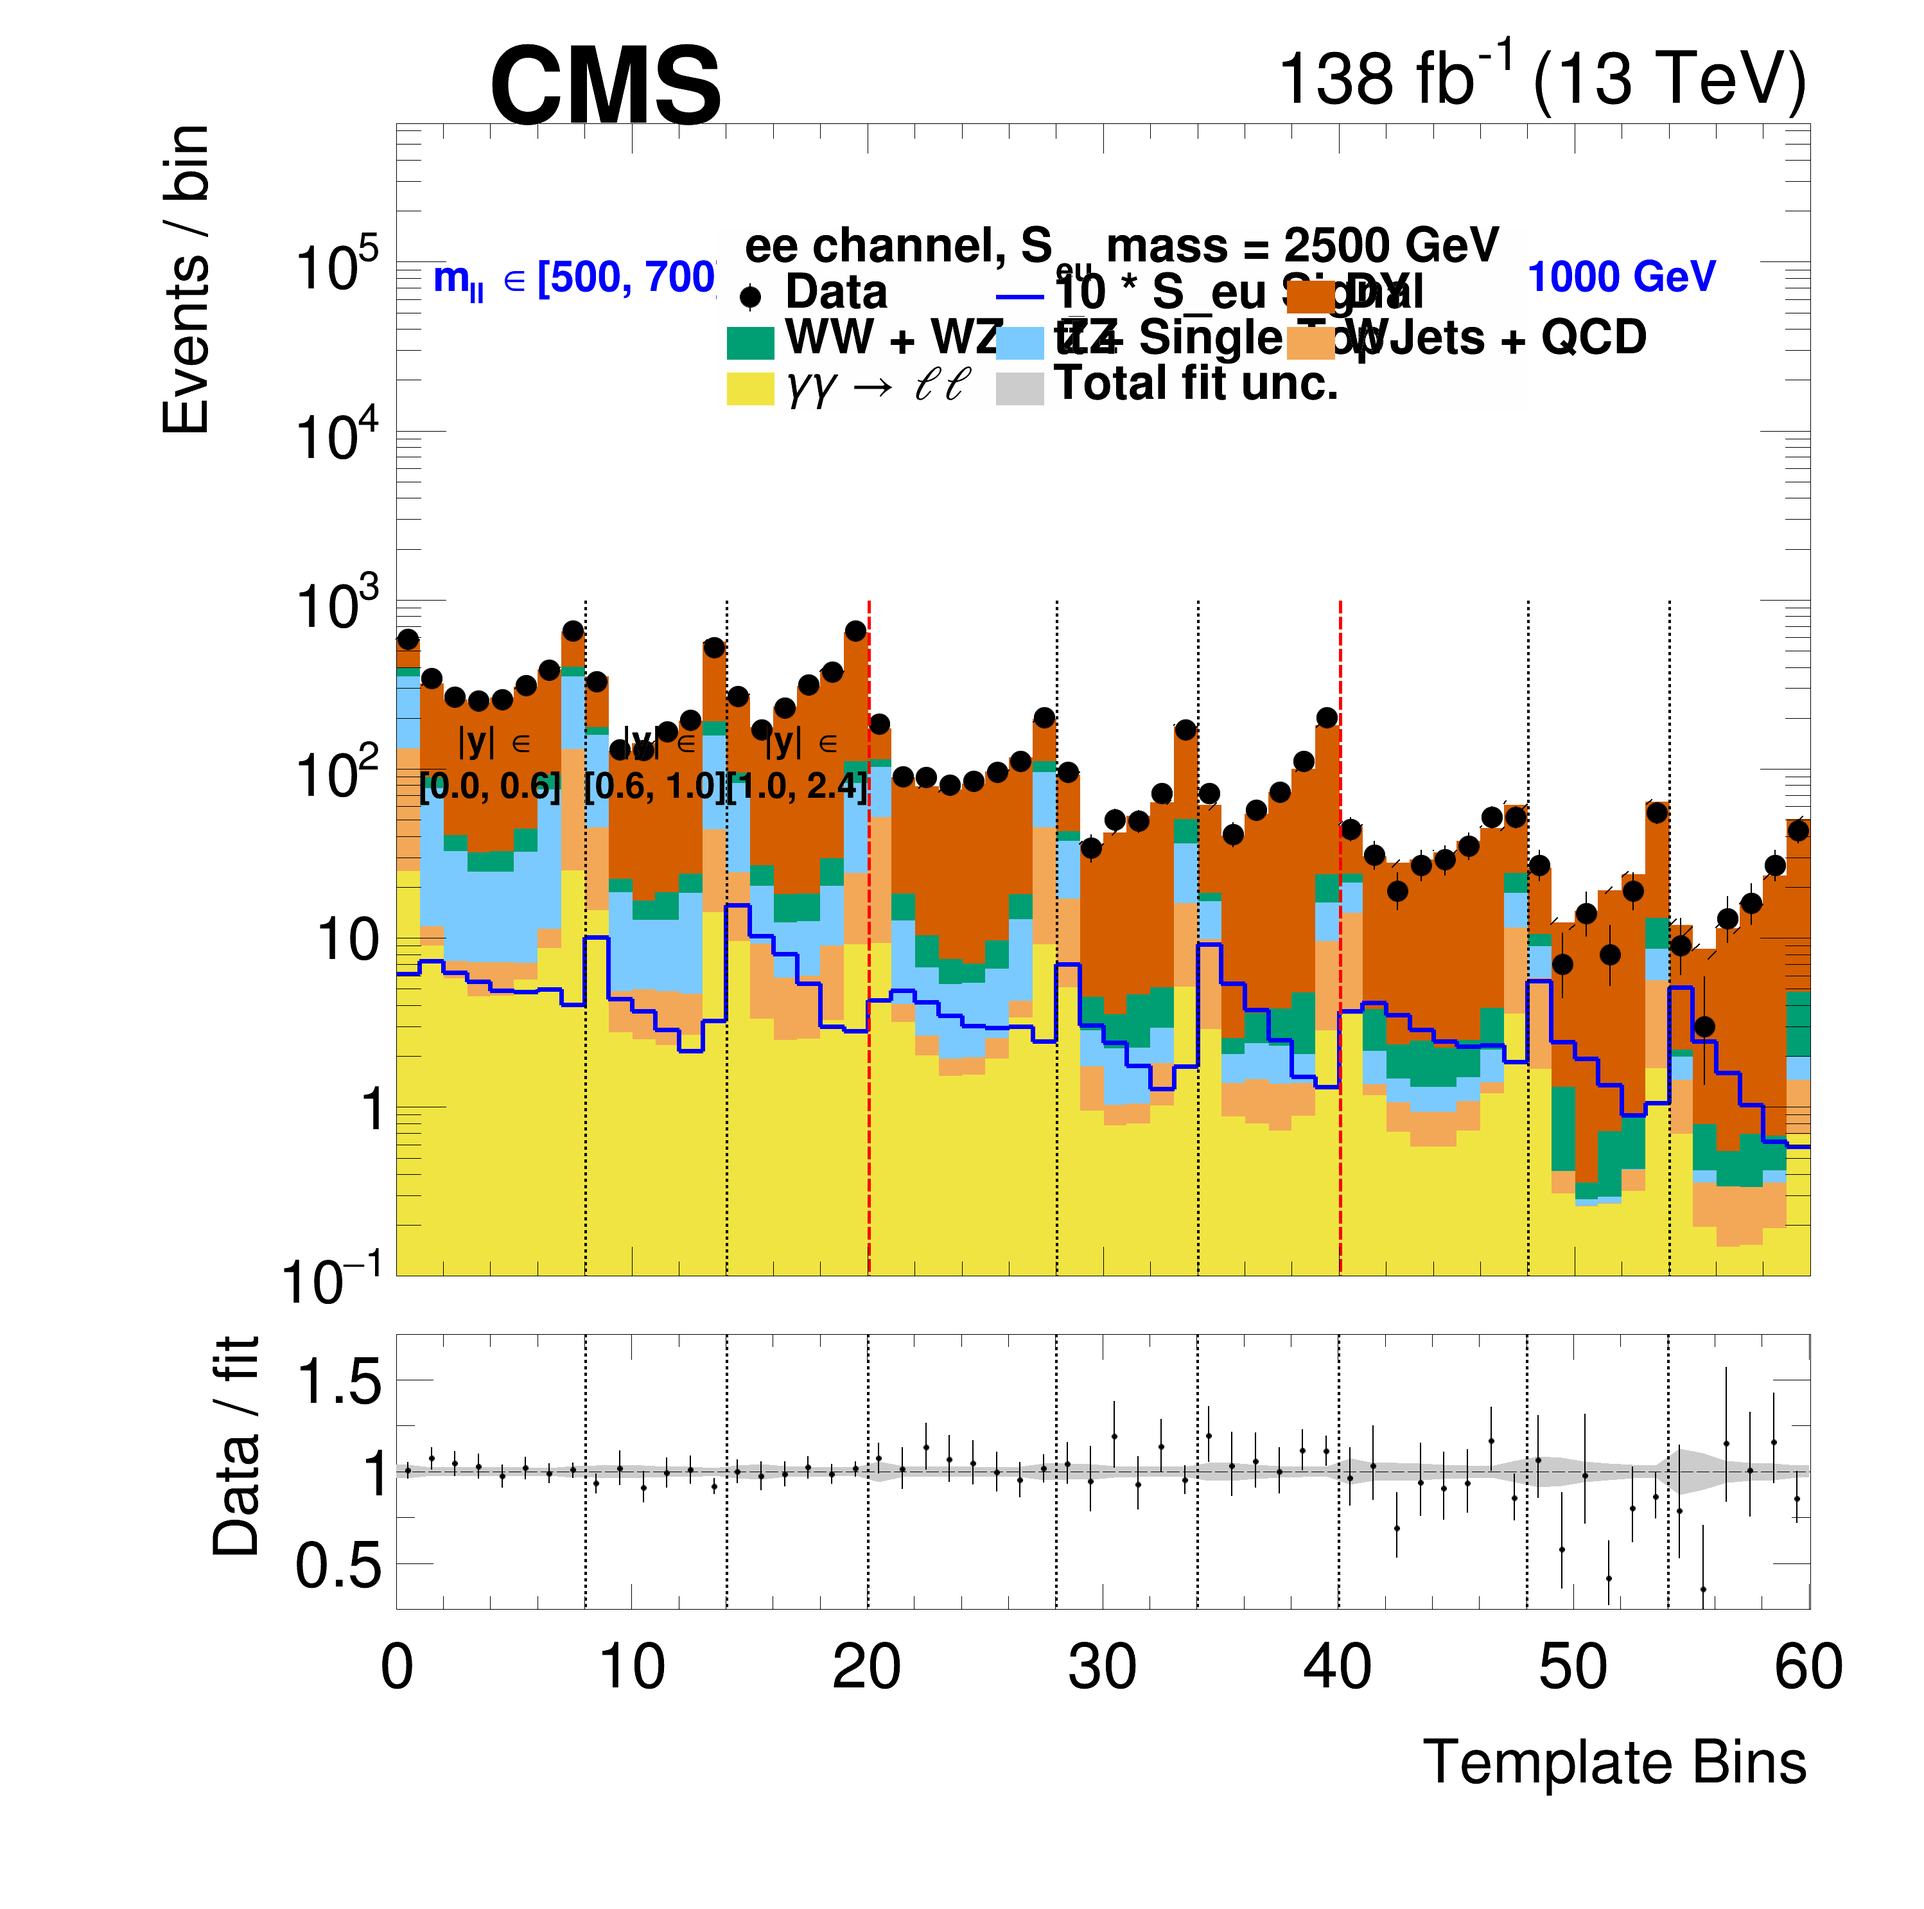
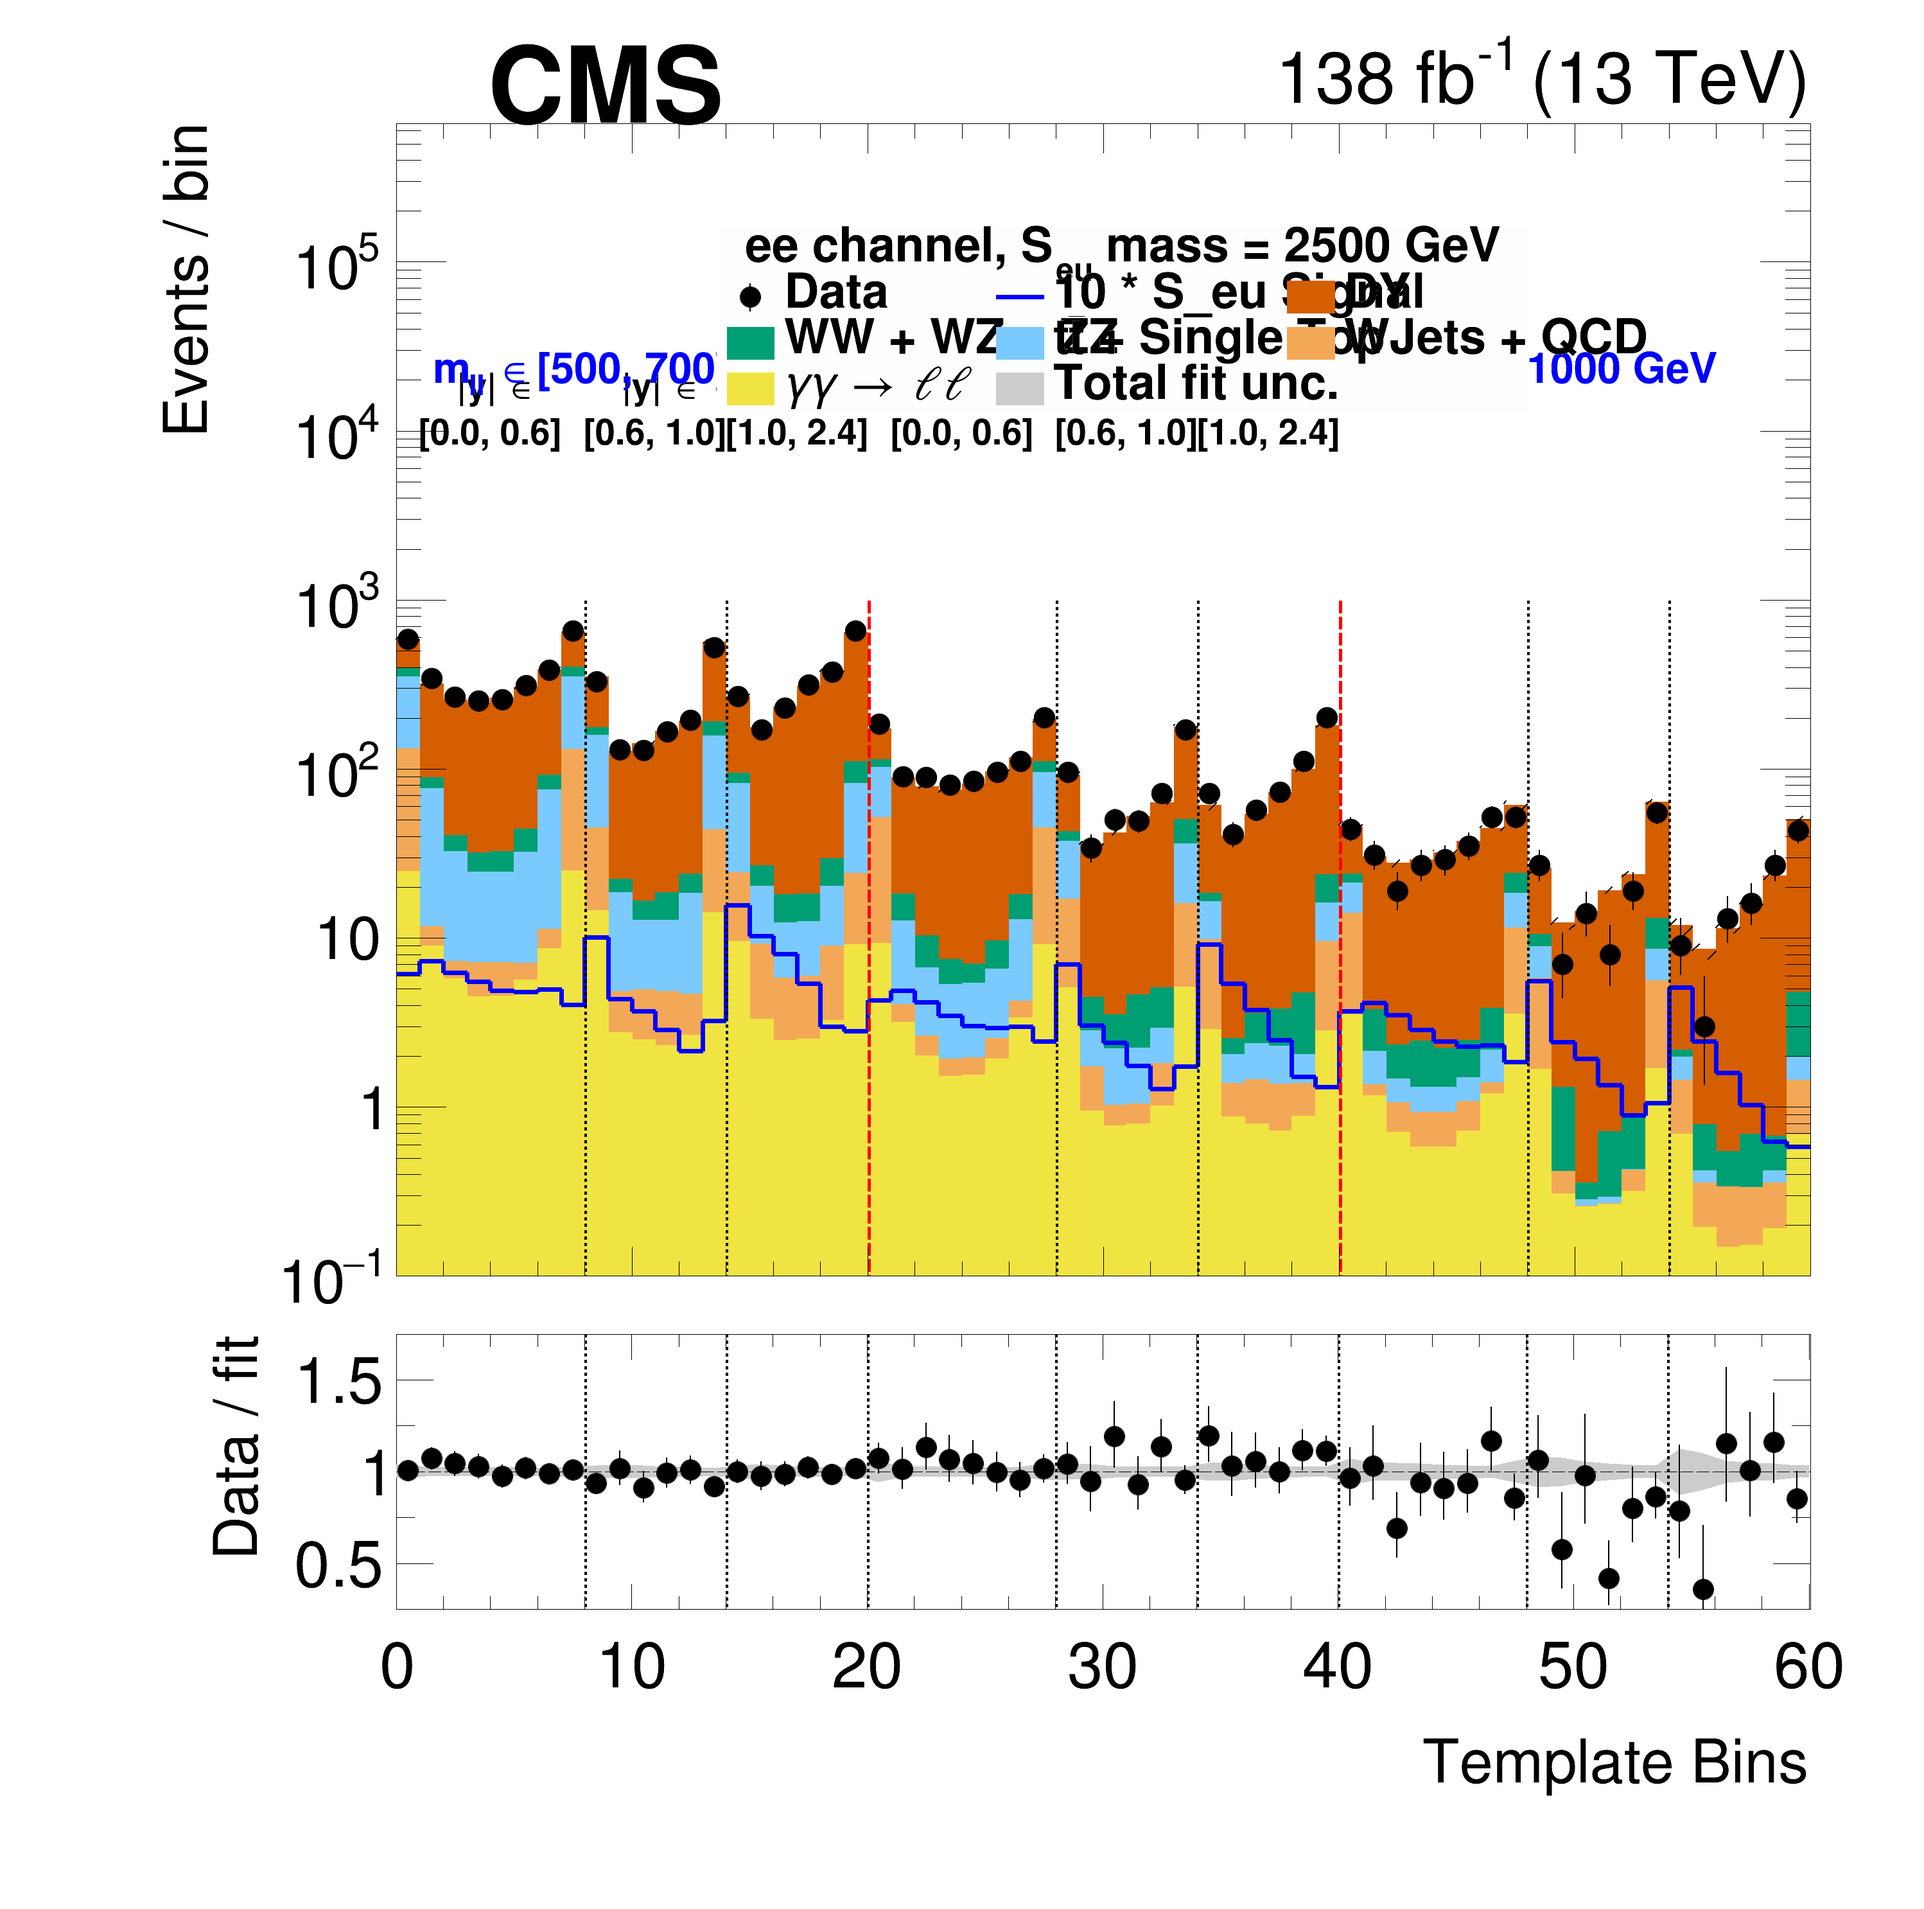
plot fix?

diff --git a/analyze/combine/AFB_fits/scripts/LQ_plot_postfit.py b/analyze/combine/AFB_fits/scripts/LQ_plot_postfit.py
@@ -285,9 +285,9 @@ def makeCan(name, tag, histlist, bkglist=[],signals=[],totlist = [], colors=[],t
 							"#splitline{   #bf{|y| #epsilon}}{#bf{[1.5, 2.4]}}"]
 				else:
 					line_vals = [8, 14, 20, 28, 34, 40, 48, 54 ]
-					text_center_bins = [4, 11, 17]
+					text_center_bins = [4, 11, 17, 24, 31, 37, 44, 51, 57]
 					text_strs = ["#splitline{   #bf{|y| #epsilon}}{#bf{[0.0, 0.6]}}", "#splitline{   #bf{|y| #epsilon}}{#bf{[0.6, 1.0]}}", "#splitline{   #bf{|y| #epsilon}}{#bf{[1.0, 2.4]}}"]
-
+					text_strs+=text_strs
 
 				lstyle = 7
 				lwidth = 4
@@ -300,9 +300,9 @@ def makeCan(name, tag, histlist, bkglist=[],signals=[],totlist = [], colors=[],t
 
 				for idx in range(len(line_vals)):
 					line_x = line_vals[idx] + line_eps
-					l = TLine(line_x, 0, line_x, line_max)
+					l = TLine(line_x, 0, line_x, line_max+0.5)
 					if line_vals[idx] == 20 or line_vals[idx] == 40: 
-						l = TLine(line_x, 0, line_x, line_max+0.3)
+						l = TLine(line_x, 0, line_x, line_max+0.7)
 						l.SetLineColor(ROOT.kRed)
 						l.SetLineStyle(9)
 						l.SetLineWidth(5)
@@ -333,7 +333,7 @@ def makeCan(name, tag, histlist, bkglist=[],signals=[],totlist = [], colors=[],t
 
 				for idx,text_str in enumerate(text_strs):
 					text_center = l_margin + (text_center_bins[idx] / nbins) * (1.-l_margin - r_margin)
-					latext.DrawLatex(text_center, text_y, text_str)
+					latext.DrawLatex(text_center, text_y+0.27, text_str)
 				# mass bin labels
 				#text labels
                                 latext2 = TLatex()
@@ -347,7 +347,7 @@ def makeCan(name, tag, histlist, bkglist=[],signals=[],totlist = [], colors=[],t
 				text_strs = ["#bf{m_{ll} #epsilon [500, 700] GeV}", "#bf{m_{ll} #epsilon [700, 1000] GeV}", "#bf{m_{ll} > 1000 GeV}"]
 				for idx,text_str in enumerate(text_strs):
                                         text_center = l_margin + (text_center_bins[idx] / nbins) * (1.-l_margin - r_margin)
-                                        latext2.DrawLatex(text_center, text_y+0.37, text_str)
+                                        latext2.DrawLatex(text_center, text_y+0.3, text_str)
 
 				legends[hist_index].SetHeader(titles[0], "c")
 				legends[hist_index].SetNColumns(3)
@@ -423,7 +423,7 @@ def makeCan(name, tag, histlist, bkglist=[],signals=[],totlist = [], colors=[],t
 				ratio_sys_unc.SetFillColor(ROOT.kGray)
 				#ratio_sys_unc.SetFillStyle(3015)
 
-
+				ratio.SetMarkerSize(4)
 				ratio.SetLineStyle(1)
 				ratio.SetLineWidth(2)
 				ratio_sys_unc.Draw("A3 same")
